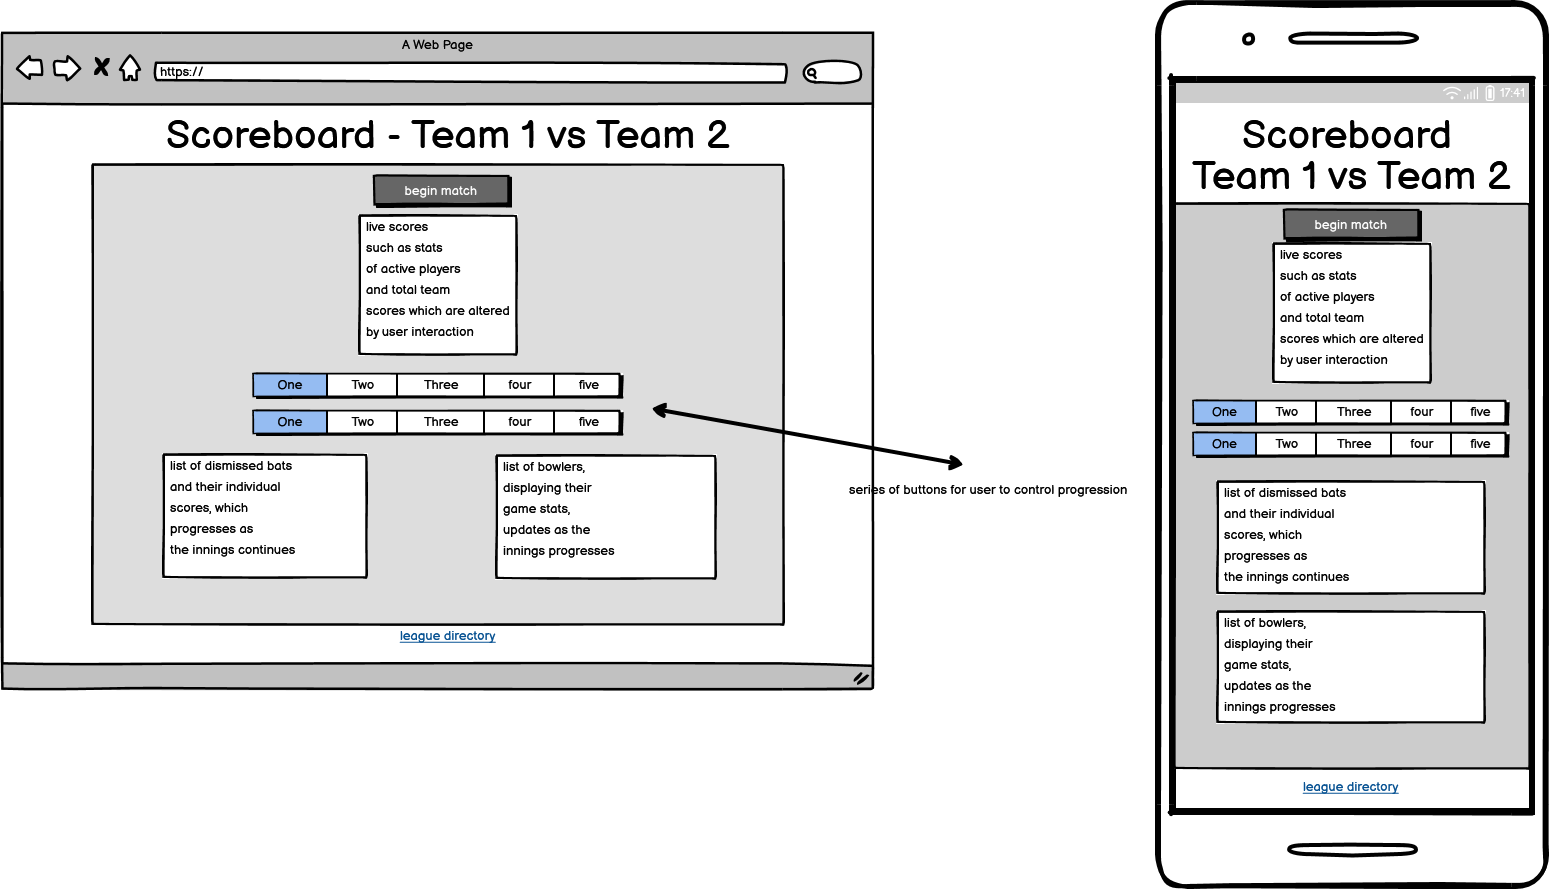
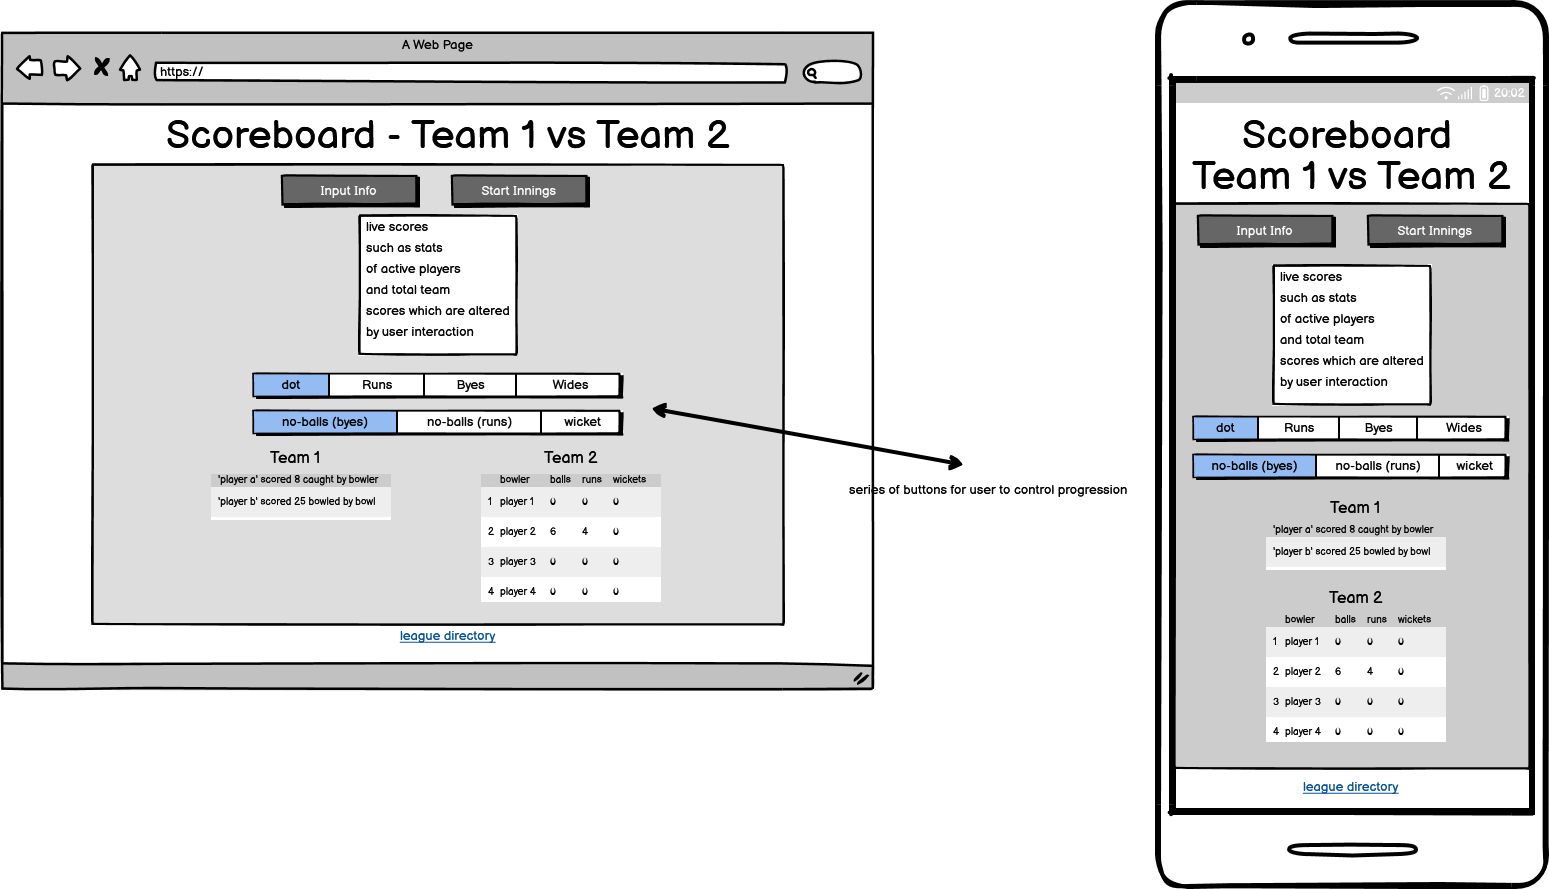
add updated wireframes images and implement into readme

diff --git a/README.md b/README.md
@@ -84,6 +84,10 @@ The primary colour of for typography is a dark grey (#445361), following the sam
 
 ### Wireframes
 
+<img src="assets/images/wireframe_image_2.png">
+
+The team statistics section for team 1 develops as the game progresses (see below), at the start of play it not show.
+
 <img src="assets/images/wireframe_image.png">
 
 
